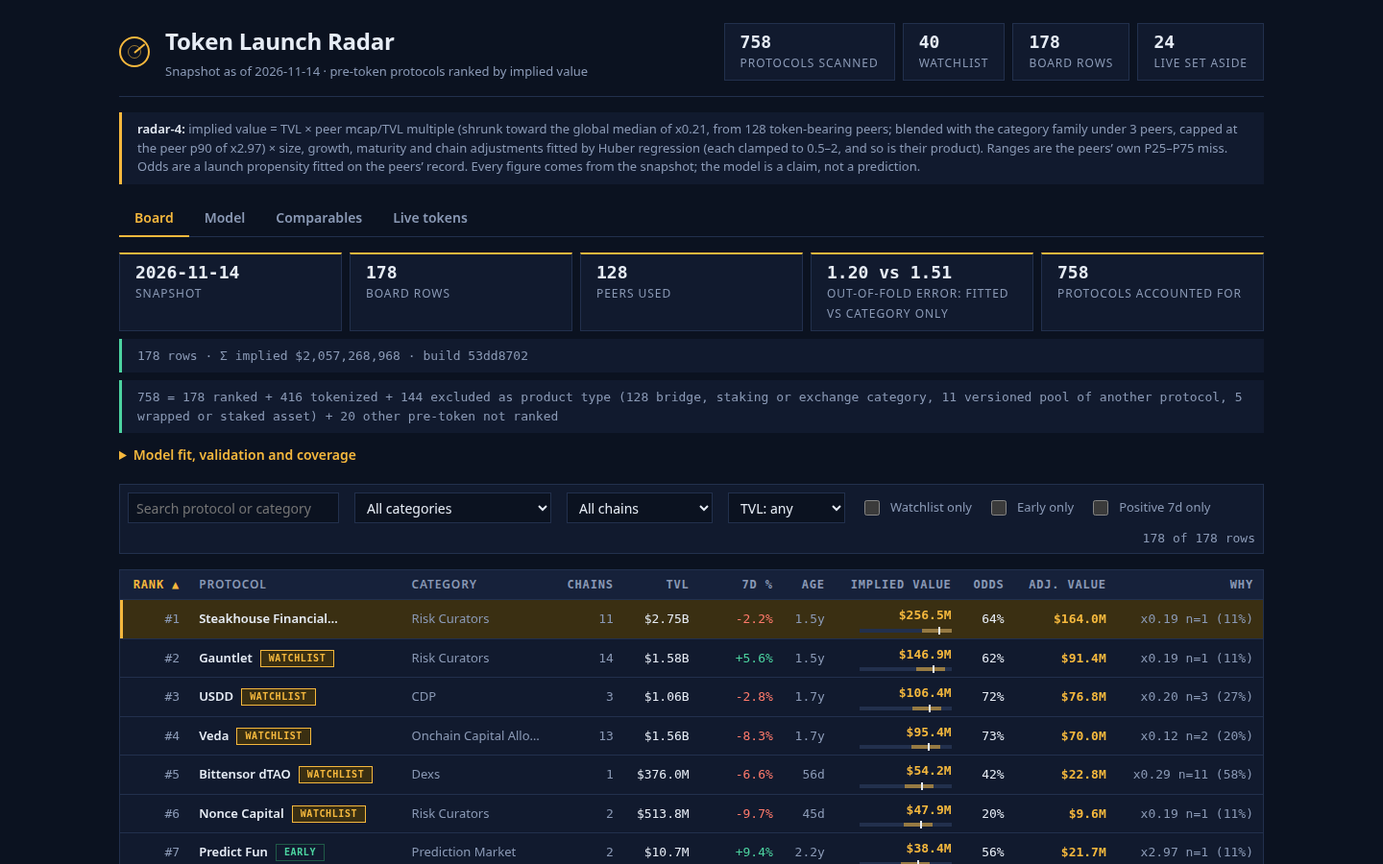
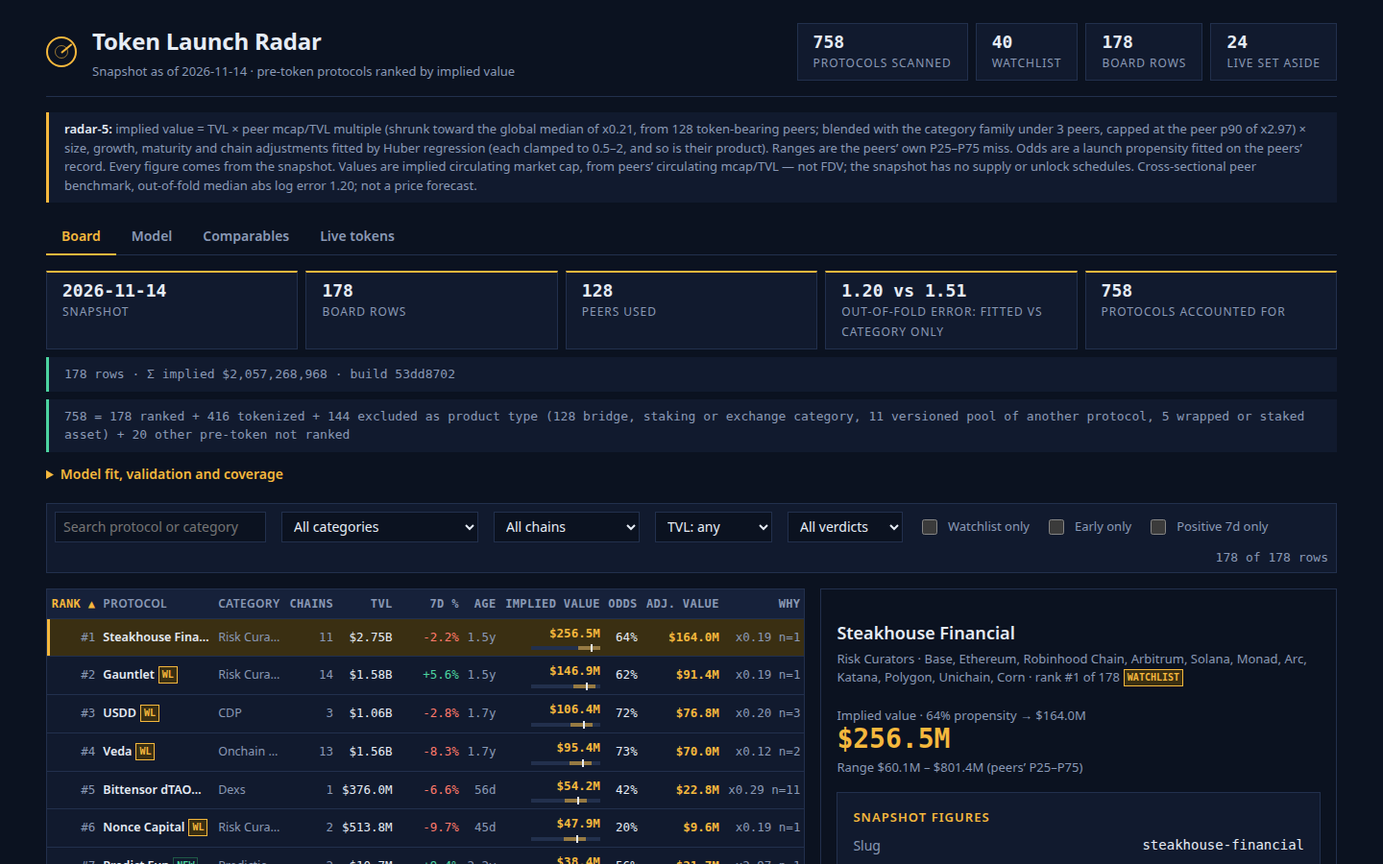
Update dashboard, model and README, replace detail screenshot with comparables

diff --git a/dashboard/app.js b/dashboard/app.js
@@ -5,7 +5,7 @@
   var root = document.getElementById('app');
   if (!D) { root.textContent = 'No data: data.js did not load.'; return; }
   var rows = D.rows;
-  var S = { q: '', cat: '', chain: '', wl: false, early: false, pos: false, tvl: 0, key: 'rank', dir: 1, sel: rows[0].slug };
+  var S = { q: '', cat: '', chain: '', wl: false, early: false, pos: false, verdict: '', tvl: 0, key: 'rank', dir: 1, sel: rows[0].slug };
   var view = 'board';
   var lnLo = Math.log(Math.min.apply(null, rows.map(function (r) { return r.value_low; })));
   var lnSpan = Math.log(Math.max.apply(null, rows.map(function (r) { return r.value_high; }))) - lnLo;
@@ -21,7 +21,8 @@
   function fmtPct(n) { return n === null || n === undefined ? 'n/a' : (n > 0 ? '+' : '') + n.toFixed(1) + '%'; }
   function fmtAge(d) { return d === null || d === undefined ? 'n/a' : d >= 365 ? (d / 365).toFixed(1) + 'y' : d + 'd'; }
   function fmtX(n) { return 'x' + (n >= 10 ? n.toFixed(1) : n.toFixed(2)); }
-  function why(r) { return fmtX(r.model.peer_multiple) + ' n=' + r.model.peer_count + ' (' + Math.round(r.model.confidence * 100) + '%)'; }
+  function why(r) { return fmtX(r.model.peer_multiple) + ' n=' + r.model.peer_count; }
+  function vlabel(r) { return r.farm_verdict.split(':')[0]; }
   function fmtOdds(o) { return Math.round(o * 100) + '%'; }
   function full(n) { return '$' + n.toLocaleString('en-US'); }
   function range(r) { return fmtUsd(r.value_low) + ' – ' + fmtUsd(r.value_high); }
@@ -70,7 +71,7 @@
   function modelLine() {
     return el('p', { class: 'model-line' },
       el('b', { text: D.model_version + ': ' }),
-      'implied value = TVL × peer mcap/TVL multiple (shrunk toward the global median of ' + fmtX(D.global_median_multiple) + ', from ' + D.peer_total + ' token-bearing peers; blended with the category family under 3 peers, capped at the peer p90 of ' + fmtX(D.peer_cap_multiple) + ') × size, growth, maturity and chain adjustments fitted by Huber regression (each clamped to 0.5–2, and so is their product). Ranges are the peers’ own P25–P75 miss. Odds are a launch propensity fitted on the peers’ record. Every figure comes from the snapshot; the model is a claim, not a prediction.');
+      'implied value = TVL × peer mcap/TVL multiple (shrunk toward the global median of ' + fmtX(D.global_median_multiple) + ', from ' + D.peer_total + ' token-bearing peers; blended with the category family under 3 peers, capped at the peer p90 of ' + fmtX(D.peer_cap_multiple) + ') × size, growth, maturity and chain adjustments fitted by Huber regression (each clamped to 0.5–2, and so is their product). Ranges are the peers’ own P25–P75 miss. Odds are a launch propensity fitted on the peers’ record. Every figure comes from the snapshot. Values are implied circulating market cap, from peers’ circulating mcap/TVL — not FDV; the snapshot has no supply or unlock schedules. Cross-sectional peer benchmark, out-of-fold median abs log error ' + D.fit.error_fitted.toFixed(2) + '; not a price forecast.');
   }
   function tabs() {
     var defs = [['board', 'Board'], ['model', 'Model'], ['comparables', 'Comparables'], ['live', 'Live tokens']];
@@ -132,6 +133,7 @@
       if (S.early && r.watchlist) return false;
       if (S.pos && !(r.change_7d !== null && r.change_7d > 0)) return false;
       if (S.tvl && r.tvl_usd < S.tvl) return false;
+      if (S.verdict && vlabel(r) !== S.verdict) return false;
       return true;
     });
     out.sort(function (a, b) {
@@ -162,14 +164,15 @@
       select('Category', [['', 'All categories']].concat(cats.map(function (c) { return [c, c]; })), S.cat, function (v) { S.cat = v; draw(); }),
       select('Chain', [['', 'All chains']].concat(chains.map(function (c) { return [c, c]; })), S.chain, function (v) { S.chain = v; draw(); }),
       select('Minimum TVL', [[0, 'TVL: any'], [1e7, 'TVL ≥ $10M'], [5e7, 'TVL ≥ $50M'], [1e8, 'TVL ≥ $100M'], [5e8, 'TVL ≥ $500M']], S.tvl, function (v) { S.tvl = +v; draw(); }),
+      select('Verdict', [['', 'All verdicts'], ['Worth it', 'Worth it'], ['Marginal', 'Marginal'], ['Skip', 'Skip']], S.verdict, function (v) { S.verdict = v; draw(); }),
       check('Watchlist only', 'wl'), check('Early only', 'early'), check('Positive 7d only', 'pos'),
       el('span', { class: 'count', id: 'count' }));
     var box = el('div', { class: 'tablebox scroll', id: 'tbox' });
-    var pane = el('section', { id: 'detail', 'aria-live': 'polite' });
+    var pane = el('aside', { id: 'detail', 'aria-live': 'polite', 'aria-label': 'Selected protocol' });
     showDetail(pane);
     boardUpdate = function () { fillTable(box, controls.querySelector('#count'), pane); };
     boardUpdate();
-    return el('div', {}, strip(), controls, box, pane);
+    return el('div', {}, strip(), controls, el('div', { class: 'split' }, el('div', { class: 'left' }, box), pane));
   }
   function showDetail(pane) {
     var r = rows.filter(function (x) { return x.slug === S.sel; })[0] || rows[0];
@@ -197,12 +200,13 @@
         [].forEach.call(box.querySelectorAll('tr.sel'), function (x) { x.className = ''; });
         tr.className = 'sel';
         showDetail(pane);
+        pane.scrollTop = 0;
         try { history.replaceState(null, '', '#/p/' + r.slug); } catch (e) { /* file:// may refuse */ }
       };
       var pos = function (v) { return ((Math.log(v) - lnLo) / lnSpan * 100).toFixed(1) + '%'; };
       tr = el('tr', { tabindex: '0', class: r.slug === S.sel ? 'sel' : '', onclick: open, onkeydown: function (e) { if (e.key === 'Enter') open(); } },
         el('td', { class: 'n dim', text: '#' + r.rank }),
-        el('td', { class: 'name' }, r.name, el('span', { class: 'badge ' + (r.watchlist ? 'wl' : 'early'), text: r.watchlist ? 'Watchlist' : 'Early' })),
+        el('td', { class: 'name' }, r.name, el('span', { class: 'badge ' + (r.watchlist ? 'wl' : 'early'), text: r.watchlist ? 'WL' : 'New', title: r.watchlist ? 'Watchlist' : 'Early row' })),
         el('td', { class: 'cat dim', text: r.category || 'Uncategorized' }),
         el('td', { class: 'n dim', text: String(r.chains.length), title: r.chains.join(', ') }),
         el('td', { class: 'n', text: fmtUsd(r.tvl_usd) }),
@@ -234,10 +238,13 @@
     return card('Valuation waterfall', tbl(['Step', 'Factor', 'Value', ''], data, 1), p('Each factor is the fitted, clamped adjustment; their product is clamped to 0.5–2' + (r.clamp_adj !== 1 ? ' (here it binds: ×' + r.clamp_adj.toFixed(2) + ')' : '') + '. The last row scales the implied value by the peers’ out-of-fold P25 and P75 misses.'));
   }
   function nearest(r) {
-    var n = r.nearest;
+    var n = r.nearest, N = r.model.peer_count, cross = n.some(function (x) { return x.cross; });
     return card('Nearest tokenized peers',
-      n.length ? tbl(['Peer', 'TVL', 'Market cap', 'mcap/TVL'], n.map(function (x) { return [x.name, fmtUsd(x.tvl_usd), fmtUsd(x.mcap_usd), fmtX(x.multiple)]; }), 1) : p('No tokenized peer in this category.'),
-      p('Up to 3 peers of the same category, closest in TVL (smallest |ln of the TVL ratio|). This row: ' + fmtUsd(r.tvl_usd) + ' TVL, ' + fmtX(r.model.peer_multiple) + ' used.'));
+      n.length ? tbl(['Peer', 'TVL', 'Market cap', 'mcap/TVL'], n.map(function (x) {
+        return [x.cross ? [document.createTextNode(x.name), el('span', { class: 'badge live', text: 'cross-category' })] : x.name, fmtUsd(x.tvl_usd), fmtUsd(x.mcap_usd), fmtX(x.multiple)];
+      }), 1) : p('No tokenized peer in this category.'),
+      p('Same-category peers first, closest in TVL (smallest |ln of the TVL ratio|)' + (cross ? ', then the closest peers of any category' : '') + '. This row: ' + fmtUsd(r.tvl_usd) + ' TVL, ' + fmtX(r.model.peer_multiple) + ' used.'),
+      cross ? p('Cross-category rows are context only and did not enter the value; the value used the ' + N + ' same-category peer' + (N === 1 ? '' : 's') + ' with shrinkage.') : null);
   }
   function detail(r) {
     var m = r.model, pl = r.plan, F = D.farm;
@@ -262,7 +269,7 @@
       el('div', { class: 'grid w2' },
         card('Snapshot figures',
           el('dl', { class: 'facts' },
-            fact('Slug', r.slug), fact('TVL', full(r.tvl_usd)), fact('TVL change 7d', fmtPct(r.change_7d)),
+            fact('Slug', r.slug), el('dt', { class: 'wide', text: 'Basis: circulating mcap/TVL (not FDV)' }), fact('TVL', full(r.tvl_usd)), fact('TVL change 7d', fmtPct(r.change_7d)),
             fact('Listed', r.listed_at || 'n/a'), fact('Age', r.age_days === null ? 'n/a (365d assumed)' : r.age_days + ' days'),
             fact('Chains', String(r.chains.length)), fact('Token', 'none recorded'),
             fact('Implied value', full(r.implied_value_usd)), fact('Range (P25–P75)', full(r.value_low) + ' – ' + full(r.value_high)),
@@ -280,7 +287,13 @@
       el('div', { class: 'grid w2 mt' }, waterfall(r), nearest(r)),
       el('section', { class: 'card mt' }, el('h3', { text: 'Farm plan and verdict' }),
         el('p', { class: 'verdict ' + vcls, text: r.farm_verdict }),
-        p('Totals: $' + r.farm_cost_usd.toFixed(2) + ' in fees, ' + r.farm_hours.toFixed(1) + ' hands-on hours. Chains ' + pl.chains.map(function (c) { return c.name + ' (tier ' + c.tier + ', $' + c.cost_usd + ')'; }).join(', ') + ' = $' + pl.chain_cost_usd + ' round trip. Deposit $' + pl.deposit_usd.toLocaleString('en-US') + '; about ' + pl.participants.toLocaleString('en-US') + ' wallets share a ' + (F.airdrop_pool_share * 100) + '% pool, so expected $' + pl.ev_wallet_usd.toFixed(2) + ' a wallet = implied × propensity × ' + (F.airdrop_pool_share * 100) + '% / wallets. Time at $' + F.hour_value_usd + '/h; worth it ≥ ' + F.worth_ratio + 'x, marginal ≥ ' + F.marginal_ratio + 'x.'),
+        el('dl', { class: 'facts mt' },
+          fact('Point EV a wallet', '$' + pl.ev_wallet_usd.toFixed(2)), fact('P25 EV a wallet', '$' + pl.ev_p25_wallet_usd.toFixed(2)),
+          fact('All-in cost', '$' + pl.all_in_usd.toFixed(2)),
+          fact('  fees', '$' + r.farm_cost_usd.toFixed(2)), fact('  hands-on time', r.farm_hours.toFixed(1) + 'h × $' + F.hour_value_usd + ' = $' + (r.farm_hours * F.hour_value_usd).toFixed(2)),
+          fact('  capital opportunity', '$' + pl.deposit_usd.toLocaleString('en-US') + ' × ' + (F.capital_apr * 100).toFixed(1) + '% × ' + pl.hold_weeks.toFixed(1) + '/52 wk = $' + pl.opportunity_usd.toFixed(2)),
+          fact('EV / cost', pl.ev_ratio.toFixed(2) + 'x point, ' + pl.ev_p25_ratio.toFixed(2) + 'x P25')),
+        p('Chains ' + pl.chains.map(function (c) { return c.name + ' (tier ' + c.tier + ', $' + c.cost_usd + ')'; }).join(', ') + ' = $' + pl.chain_cost_usd + ' round trip. About ' + pl.participants.toLocaleString('en-US') + ' wallets share a ' + (F.airdrop_pool_share * 100) + '% pool: EV = implied × propensity × ' + (F.airdrop_pool_share * 100) + '% / wallets; P25 EV uses the P25 value. Worth it: point EV ≥ ' + F.worth_ratio + 'x all-in and P25 EV ≥ ' + F.worth_p25_floor + 'x all-in. Marginal: point EV ≥ ' + F.marginal_ratio + 'x all-in but not Worth it. Skip: point EV < ' + F.marginal_ratio + 'x.'),
         el('ol', { class: 'plan mt' }, steps)));
   }
 
@@ -309,6 +322,7 @@
     var tiers = F.tiers.map(function (t) { return ['Tier ' + t.tier, t.label, '$' + t.cost_usd]; });
     return el('div', {},
       p('Two out-of-sample checks of the same model, side by side. Where the fitted gain is small the table says so.', 'note'),
+      p('Basis: values are implied circulating market cap, from peers’ circulating mcap/TVL (not FDV). The snapshot has no supply or unlock schedules, so no fully diluted value can be derived. These checks measure a cross-sectional peer benchmark, not a price forecast.', 'note'),
       el('div', { class: 'grid mb' },
         valCard('Validation 1: 5-fold cross-validation', f.cv, f.cv.n + ' peers predicted out of fold: each fold is refit (category multiples and Huber fit) on the other four; fold = sum of the slug’s char codes mod ' + f.cv.folds + '.'),
         valCard('Validation 2: walk-forward', w, 'Fit on the earliest ' + w.n_fit + ' peers by listed date, tested on the latest ' + w.n + ' (listed ' + w.from + ' to ' + w.to + '; the ' + w.undated + ' undated peers count as oldest). A smaller, harder test.')),
@@ -330,7 +344,8 @@
             el('p', {}, el('b', { text: 'Wallets sharing the pool. ' }), el('code', { text: 'clamp(round(' + dl.base + ' × (TVL / $' + dl.ref_tvl_usd / 1e6 + 'M)^' + dl.exponent + '), ' + dl.min + ', ' + dl.max.toLocaleString('en-US') + ')' })),
             el('p', {}, el('b', { text: 'Deposit. ' }), el('code', { text: 'clamp(round(TVL × ' + dp.rate + ' / ' + dp.step + ') × ' + dp.step + ', $' + dp.min + ', $' + dp.max.toLocaleString('en-US') + ')' }), ' (returned on exit, not a cost).'),
             el('p', {}, el('b', { text: 'Expected value a wallet. ' }), 'implied × propensity × ' + (F.airdrop_pool_share * 100) + '% pool / wallets. One qualifying action costs ' + (F.action_fee_share * 100) + '% of the first chain’s round trip.'),
-            el('p', {}, el('b', { text: 'Verdict. ' }), 'Expected value over all-in cost (fees + hands-on hours at $' + F.hour_value_usd + '/h): Worth it ≥ ' + F.worth_ratio + 'x, Marginal ≥ ' + F.marginal_ratio + 'x, else Skip.'),
+            el('p', {}, el('b', { text: 'All-in cost. ' }), 'fees + hands-on hours × $' + F.hour_value_usd + '/h + capital opportunity = deposit × ' + (F.capital_apr * 100).toFixed(1) + '% APR × hold weeks / 52. Hold weeks is the plan’s own hold in days / 7 (the hold step: 21 to 60 days by age and TVL momentum); a fixed ' + F.hold_weeks_fallback + ' weeks would apply only to a plan with no hold, and none lacks one.'),
+            el('p', {}, el('b', { text: 'Verdict. ' }), 'P25 EV a wallet = P25 value × propensity × ' + (F.airdrop_pool_share * 100) + '% / wallets. Worth it: point EV ≥ ' + F.worth_ratio + 'x all-in cost and P25 EV ≥ ' + F.worth_p25_floor + 'x all-in cost. Marginal: point EV ≥ ' + F.marginal_ratio + 'x all-in cost but not Worth it. Skip: point EV < ' + F.marginal_ratio + 'x all-in cost. The thresholds are not tuned to a target count.'),
             el('p', {}, el('b', { text: 'Tactics. ' }), '7d TVL above +5%: crowding caution and a hold capped at 21 days; below −5%: accumulate quietly. Listed under a year: early-user footprint; over 4 years: a sustained eight-week cadence.')))));
   }
 
@@ -390,7 +405,7 @@
     var inner = view === 'model' ? modelView() : view === 'comparables' ? comparablesView() : view === 'live' ? liveView() : boardView();
     var keep = view === 'board' && document.activeElement && document.activeElement.type === 'search';
     root.textContent = '';
-    root.appendChild(el('div', { class: 'wrap' }, header(), modelLine(), tabs(), el('main', {}, inner)));
+    root.appendChild(el('div', { class: 'wrap' + (view === 'board' ? ' wide' : '') }, header(), modelLine(), tabs(), el('main', {}, inner)));
     if (keep) { var s = root.querySelector('input[type=search]'); if (s) { s.focus(); s.setSelectionRange(s.value.length, s.value.length); } }
     if (view !== 'board') document.title = 'Token Launch Radar';
   }

diff --git a/lib/model.ts b/lib/model.ts
@@ -1,4 +1,4 @@
-// The token radar's model (radar-4): one snapshot of the protocol universe in, one ranked board out.
+// The token radar's model (radar-5): one snapshot of the protocol universe in, one ranked board out.
 //
 // A protocol is pre-token when its index entry records no token (no market cap, no CoinGecko id, no
 // symbol). Implied value is calibrated on the snapshot's own token-bearing protocols (the peers):
@@ -88,9 +88,9 @@ export const MODEL: ModelConstants = {
   chain_cap: 7,
 };
 
-export const MODEL_VERSION = 'radar-4';
+export const MODEL_VERSION = 'radar-5';
 
-/** radar-4 fixed choices: the dashboard states them. */
+/** radar-5 fixed choices: the dashboard states them. */
 export const FIT = {
   thin_peers: 3,
   confidence_k: 8,
@@ -114,7 +114,10 @@ export const FIT = {
   airdrop_pool_share: 0.05,
   hour_value_usd: 15,
   worth_ratio: 3,
+  worth_p25_floor: 1,
   marginal_ratio: 1,
+  capital_apr: 0.045,
+  hold_weeks_fallback: 8,
 };
 
 /** Early rows carried below the watchlist floor, by implied value. */
@@ -182,6 +185,18 @@ export interface PlanFigures {
   ev_wallet_usd: number;
   chains: { name: string; tier: string; cost_usd: number }[];
   chain_cost_usd: number;
+  /** The plan's own hold in days (the hold step) and the weeks the opportunity term uses. */
+  hold_days: number;
+  hold_weeks: number;
+  /** Capital opportunity: deposit x APR x hold_weeks / 52. */
+  opportunity_usd: number;
+  /** All-in cost: fees + hours x hourly value + opportunity. */
+  all_in_usd: number;
+  /** P25 expected value per wallet: value_low x odds x pool share / participants. */
+  ev_p25_wallet_usd: number;
+  /** Point EV over all-in cost, and P25 EV over all-in cost. */
+  ev_ratio: number;
+  ev_p25_ratio: number;
 }
 
 /** One tokenized peer of the same category, nearest in TVL. */
@@ -190,6 +205,8 @@ export interface NearPeer {
   tvl_usd: number;
   mcap_usd: number;
   multiple: number;
+  /** True when the peer is of another category: context only, it did not enter the value. */
+  cross?: boolean;
 }
 
 /** The dashboard's view of one row: the board row plus the farm plan split into its parts. */
@@ -277,7 +294,10 @@ export interface FarmAssumptions {
   airdrop_pool_share: number;
   hour_value_usd: number;
   worth_ratio: number;
+  worth_p25_floor: number;
   marginal_ratio: number;
+  capital_apr: number;
+  hold_weeks_fallback: number;
   tiers: { tier: string; label: string; cost_usd: number }[];
   dilution: typeof DILUTION;
   deposit: typeof DEPOSIT;
@@ -854,15 +874,24 @@ export function depositFor(tvl: number): number {
 
 const usd = (n: number): string => (n >= 10 ? `$${Math.round(n).toLocaleString('en-US')}` : `$${n.toFixed(2)}`);
 
-/** Farm totals and the costed verdict for one row: expected airdrop per wallet against the all-in cost. */
-export function farmVerdict(steps: FarmStep[], ev: number, riskAdjusted: number, participants: number): { cost: number; hours: number; verdict: string } {
+/**
+ * Farm totals and the costed verdict for one row. All-in cost = fees + hours x $15 + capital opportunity
+ * (deposit x 4.5% APR x hold weeks / 52; the hold is the plan's own, or 8 weeks if it has none).
+ * Worth it: point EV >= 3x all-in AND P25 EV >= 1x all-in. Marginal: point EV >= 1x all-in but not Worth it. Skip: point EV < 1x all-in.
+ */
+export function farmVerdict(
+  steps: FarmStep[], ev: number, riskAdjusted: number, participants: number, deposit: number, holdDays: number | null, evP25: number,
+): { cost: number; hours: number; verdict: string; hold_weeks: number; opportunity: number; all_in: number; ratio: number; ratio_p25: number } {
   const cost = Math.round(steps.reduce((s, x) => s + x.cost_usd, 0) * 100) / 100;
   const hours = Math.round(steps.reduce((s, x) => s + x.hours, 0) * 100) / 100;
-  const allIn = cost + hours * FIT.hour_value_usd;
+  const holdWeeks = holdDays === null ? FIT.hold_weeks_fallback : holdDays / 7;
+  const opportunity = deposit * FIT.capital_apr * (holdWeeks / 52);
+  const allIn = cost + hours * FIT.hour_value_usd + opportunity;
   const ratio = ev / allIn;
-  const label = ratio >= FIT.worth_ratio ? 'Worth it' : ratio >= FIT.marginal_ratio ? 'Marginal' : 'Skip';
-  const verdict = `${label}: expected ${usd(ev)} a wallet (risk-adjusted ${usd(riskAdjusted)} x ${FIT.airdrop_pool_share * 100}% pool / ${participants.toLocaleString('en-US')} wallets) vs all-in ${usd(allIn)} (${usd(cost)} fees + ${hours.toFixed(1)}h x $${FIT.hour_value_usd}), ${ratio.toFixed(2)}x.`;
-  return { cost, hours, verdict };
+  const ratioP25 = evP25 / allIn;
+  const label = ratio >= FIT.worth_ratio && ratioP25 >= FIT.worth_p25_floor ? 'Worth it' : ratio >= FIT.marginal_ratio ? 'Marginal' : 'Skip';
+  const verdict = `${label}: point EV ${usd(ev)} a wallet (risk-adjusted ${usd(riskAdjusted)} x ${FIT.airdrop_pool_share * 100}% pool / ${participants.toLocaleString('en-US')} wallets), P25 EV ${usd(evP25)}, vs all-in ${usd(allIn)} (${usd(cost)} fees + ${hours.toFixed(1)}h x $${FIT.hour_value_usd} + ${usd(opportunity)} opportunity on $${deposit.toLocaleString('en-US')} for ${holdWeeks.toFixed(1)} weeks at ${(FIT.capital_apr * 100).toFixed(1)}%): EV/cost ${ratio.toFixed(2)}x point, ${ratioP25.toFixed(2)}x P25.`;
+  return { cost, hours, verdict, hold_weeks: holdWeeks, opportunity, all_in: allIn, ratio, ratio_p25: ratioP25 };
 }
 
 /** FNV-1a (32-bit) of a string's UTF-8 bytes, as 8 hex digits. */
@@ -875,16 +904,20 @@ export function fnv1a(text: string): string {
 /** What the dashboard shows beside a board row and the board itself does not carry. */
 export type RowExtras = Pick<RadarRow, 'value_low' | 'value_high' | 'cat_share' | 'clamp_adj' | 'waterfall' | 'nearest' | 'plan'>;
 
-/** Up to 3 tokenized peers of the same category, nearest in TVL (|ln of the ratio|), ties by slug. */
+/**
+ * Up to 3 tokenized peers of the same category, nearest in TVL (|ln of the ratio|), ties by slug. When fewer than 3
+ * are in the category, the closest tokenized peers of any other category follow, tagged `cross`: display only.
+ */
 export function nearestPeers(p: SnapshotProtocol, peers: SnapshotProtocol[]): NearPeer[] {
   const key = catKey(p.category);
   const lt = Math.log(Math.max(p.tvl_usd, 1));
-  return peers
-    .filter((q) => catKey(q.category) === key)
-    .map((q) => ({ q, d: Math.abs(Math.log(q.tvl_usd) - lt) }))
-    .sort((a, b) => a.d - b.d || cmp(a.q.slug, b.q.slug))
-    .slice(0, 3)
-    .map(({ q }) => ({ name: q.name, tvl_usd: q.tvl_usd, mcap_usd: q.mcap_usd!, multiple: round4(q.mcap_usd! / q.tvl_usd) }));
+  const ranked = peers.map((q) => ({ q, d: Math.abs(Math.log(q.tvl_usd) - lt), same: catKey(q.category) === key }));
+  const view = ({ q }: { q: SnapshotProtocol }) => ({ name: q.name, tvl_usd: q.tvl_usd, mcap_usd: q.mcap_usd!, multiple: round4(q.mcap_usd! / q.tvl_usd) });
+  const byDistance = (a: { q: SnapshotProtocol; d: number }, b: { q: SnapshotProtocol; d: number }) => a.d - b.d || cmp(a.q.slug, b.q.slug);
+  const same = ranked.filter((x) => x.same).sort(byDistance).slice(0, 3).map(view);
+  if (same.length >= 3) return same;
+  const cross = ranked.filter((x) => !x.same).sort(byDistance).slice(0, 3 - same.length).map((x) => ({ ...view(x), cross: true }));
+  return [...same, ...cross];
 }
 
 /** The board and, per slug, the extras only the dashboard shows. `validation` and `prop` are the fits to score with. */
@@ -916,7 +949,9 @@ function scoreBoard(snapshot: Snapshot, model: ModelConstants, validation: FitRe
     const risk = Math.round(s.implied * launch);
     const plan = farmPlan(s.p, s.breakdown.age_days);
     const ev = (s.implied * launch * FIT.airdrop_pool_share) / plan.participants;
-    const fv = farmVerdict(plan.steps, ev, risk, plan.participants);
+    const valueLow = Math.max(1, Math.min(s.implied, Math.round(s.implied * Math.exp(validation.band.q25))));
+    const evP25 = (valueLow * launch * FIT.airdrop_pool_share) / plan.participants;
+    const fv = farmVerdict(plan.steps, ev, risk, plan.participants, plan.deposit, plan.hold_days, evP25);
     const m = s.breakdown;
     let v = s.base;
     const wf: [string, number | null, number][] = [['Base value: TVL x peer multiple', null, Math.round(v)]];
@@ -927,13 +962,26 @@ function scoreBoard(snapshot: Snapshot, model: ModelConstants, validation: FitRe
     }
     wf.push(['Implied value', null, s.implied]);
     extras.set(s.p.slug, {
-      value_low: Math.max(1, Math.min(s.implied, Math.round(s.implied * Math.exp(validation.band.q25)))),
+      value_low: valueLow,
       value_high: Math.max(s.implied, Math.round(s.implied * Math.exp(validation.band.q75))),
       cat_share: round4(shrunkShare(prop.counts, s.p.category, inScope ? s.p : null)),
       clamp_adj: round4(s.clamp),
       waterfall: wf,
       nearest: nearestPeers(s.p, peers),
-      plan: { participants: plan.participants, deposit_usd: plan.deposit, ev_wallet_usd: Math.round(ev * 100) / 100, chains: plan.chains, chain_cost_usd: plan.chain_cost },
+      plan: {
+        participants: plan.participants,
+        deposit_usd: plan.deposit,
+        ev_wallet_usd: Math.round(ev * 100) / 100,
+        chains: plan.chains,
+        chain_cost_usd: plan.chain_cost,
+        hold_days: plan.hold_days,
+        hold_weeks: Math.round(fv.hold_weeks * 100) / 100,
+        opportunity_usd: Math.round(fv.opportunity * 100) / 100,
+        all_in_usd: Math.round(fv.all_in * 100) / 100,
+        ev_p25_wallet_usd: Math.round(evP25 * 100) / 100,
+        ev_ratio: Math.round(fv.ratio * 100) / 100,
+        ev_p25_ratio: Math.round(fv.ratio_p25 * 100) / 100,
+      },
     });
     return {
       rank: i + 1,
@@ -1068,7 +1116,7 @@ function riskFor(p: SnapshotProtocol): string {
 const joinList = (xs: string[]): string => (xs.length <= 1 ? (xs[0] ?? '') : `${xs.slice(0, -1).join(', ')} and ${xs[xs.length - 1]}`);
 
 /** A protocol's farm plan, derived from its own record (category, first chains, TVL, 7d change, age). */
-export function farmPlan(p: SnapshotProtocol, age: number | null): { steps: FarmStep[]; participants: number; deposit: number; chains: PlanFigures['chains']; chain_cost: number } {
+export function farmPlan(p: SnapshotProtocol, age: number | null): { steps: FarmStep[]; participants: number; deposit: number; chains: PlanFigures['chains']; chain_cost: number; hold_days: number } {
   const named = p.chains.slice(0, MAX_PLAN_CHAINS);
   const chains = (named.length > 0 ? named : ['its main chain']).map((name) => {
     const tier = named.length > 0 ? chainTier(name) : 'U';
@@ -1114,7 +1162,7 @@ export function farmPlan(p: SnapshotProtocol, age: number | null): { steps: Farm
     { text: `Check the protocol's own points or rewards page, and claim only from the link that page publishes. Never pay to claim. At ${usd(p.tvl_usd)} TVL this plan assumes about ${participants.toLocaleString('en-US')} wallets share the pool.`, cost: 'no fee to check', time: '10 minutes', cost_usd: 0, hours: 10 / 60 },
     { text: `${riskFor(p)} Record the wallet, dates and every transaction in a farm log, then withdraw, unwind and bridge back from ${joinList(chains.map((c) => c.name))}.`, cost: 'bridge-back is in the round-trip figure', time: `${20 + 5 * (n - 1)} minutes`, cost_usd: 0, hours: (20 + 5 * (n - 1)) / 60 },
   ];
-  return { steps, participants, deposit, chains, chain_cost: chainCost };
+  return { steps, participants, deposit, chains, chain_cost: chainCost, hold_days: hold };
 }
 
 /** The live-token protocols, by market cap. */
@@ -1208,7 +1256,10 @@ export function buildRadar(snapshot: Snapshot, model: ModelConstants = MODEL): {
       airdrop_pool_share: FIT.airdrop_pool_share,
       hour_value_usd: FIT.hour_value_usd,
       worth_ratio: FIT.worth_ratio,
+      worth_p25_floor: FIT.worth_p25_floor,
       marginal_ratio: FIT.marginal_ratio,
+      capital_apr: FIT.capital_apr,
+      hold_weeks_fallback: FIT.hold_weeks_fallback,
       tiers: CHAIN_TIERS,
       dilution: DILUTION,
       deposit: DEPOSIT,

diff --git a/dashboard/app.css b/dashboard/app.css
@@ -134,3 +134,22 @@ td.val span { display: block; }
 .grid.w2 { grid-template-columns: repeat(auto-fit, minmax(480px, 1fr)); }
 @media (max-width: 720px) { .grid.w2 { grid-template-columns: 1fr; } }
 .wfw { display: block; width: 120px; }
+
+/* master-detail board: table left, sticky detail pane right */
+.wrap.wide { max-width: 1392px; }
+dl.facts dt.wide { grid-column: 1 / -1; color: var(--ink); }
+.split { display: grid; grid-template-columns: minmax(0, 1fr) minmax(0, 40%); gap: 16px; align-items: start; }
+.split .tablebox.scroll { max-height: calc(100vh - 16px); margin-bottom: 0; }
+.split .left table { font-size: 12.5px; }
+.split th, .split td { padding: 6px 4px; }
+.split th { letter-spacing: 0.03em; font-size: 12px; }
+.split td.name { max-width: 118px; }
+.split td.cat { max-width: 72px; }
+.split .badge { margin-left: 4px; padding: 0 3px; font-size: 10px; letter-spacing: 0; }
+.split .wh { width: 72px; }
+#detail { position: sticky; top: 8px; max-height: calc(100vh - 16px); overflow-y: auto; border: 1px solid var(--line); padding: 16px; background: var(--bg); }
+#detail .grid, #detail .grid.w2 { grid-template-columns: 1fr; }
+#detail .big { font-size: 28px; }
+#detail .wfw { width: 56px; }
+#detail td, #detail th { white-space: normal; }
+@media (max-width: 1100px) { .split { grid-template-columns: 1fr; } #detail { position: static; max-height: none; } .split .tablebox.scroll { max-height: 360px; } }

diff --git a/README.md b/README.md
@@ -8,14 +8,15 @@ An entry for make.fun's [“Build the best token launch radar”](https://make.f
 
 ## What it does
 
-Reads a sealed DefiLlama snapshot (758 protocols, as of 2026-11-14) and ranks 178 pre-token protocols by implied token value. The model (radar-4) is calibrated from the snapshot itself; no protocol names are hardcoded.
+Reads a sealed DefiLlama snapshot (758 protocols, as of 2026-11-14) and ranks 178 pre-token protocols by implied token value. The model (radar-5) is calibrated from the snapshot itself; no protocol names are hardcoded.
 
-- **Valuation.** Each protocol is priced at TVL × its category's peer mcap/TVL multiple (peers are same-category protocols that already have a token; multiples are shrunk toward the global median and capped at the peer 90th percentile). Size, growth, maturity and chain adjustments are fitted by Huber regression on 128 tokenized peers, not hand-set.
+- **Valuation.** Values are implied circulating market cap, from peers' circulating mcap/TVL. They are not FDV: the snapshot has no supply or unlock schedules. Each protocol is priced at TVL × its category's peer mcap/TVL multiple (peers are same-category protocols that already have a token; multiples are shrunk toward the global median and capped at the peer 90th percentile). Size, growth, maturity and chain adjustments are fitted by Huber regression on 128 tokenized peers, not hand-set.
 - **Out-of-sample validation.** Median absolute log error, fitted vs category-multiple only: 5-fold cross-validation 1.20 vs 1.51; walk-forward by listed date 1.27 vs 1.57.
 - **Value ranges.** Each row carries a P25–P75 range built from out-of-fold residuals. Measured walk-forward coverage of that range is 51%.
 - **Launch odds.** A regularized logistic regression gives a launch propensity from the peers' record (Brier 0.224 vs 0.249 for the base rate). It is a propensity, not a prediction that a protocol will issue a token.
-- **Farm plans.** Every row has a step-by-step plan that names the protocol's actual chains and costs them from a stated chain-tier table (an assumption of the model, not a measurement). Wallet dilution and deposits scale with TVL. Each plan ends in a worth-it, marginal or skip verdict.
-- **Dashboard.** A dark, sortable, filterable board. The detail view shows a valuation waterfall and the nearest tokenized peers. The Model tab shows a calibration scatter. A reconciliation strip shows the row count, the sum of implied values and a build hash. Comparables and live-token views are also included.
+- **Farm plans.** Every row has a step-by-step plan that names the protocol's actual chains and costs them from a stated chain-tier table (an assumption of the model, not a measurement). Wallet dilution and deposits scale with TVL.
+- **Verdict rule.** All-in cost = fees + hands-on hours × $15 + a capital opportunity term, deposit × 4.5% APR × hold weeks / 52 (the hold is the plan's own, 21 to 60 days; 8 weeks would apply only to a plan with none). P25 expected value per wallet = P25 value × launch odds × 5% pool / wallets. **Worth it** needs point EV ≥ 3× all-in cost and P25 EV ≥ 1× all-in cost; **Marginal** is point EV ≥ 1× all-in cost but not Worth it; **Skip** is point EV < 1×. The thresholds are not tuned to a target count.
+- **Dashboard.** A dark, sortable board with a verdict filter, laid out master-detail: the table on the left, a sticky detail pane on the right (facts, valuation waterfall, nearest tokenized peers, farm plan and itemised verdict). Thin categories show cross-category peers, tagged as context only: they did not enter the value. The Model tab shows a calibration scatter and the basis note. A reconciliation strip shows the row count, the sum of implied values and a build hash. Comparables and live-token views are also included.
 
 ## Run
 
@@ -28,7 +29,7 @@ Requires Node.js 22+. The program is `main.ts` (standard library only, no networ
 ## Layout
 
 - `main.ts` — entrypoint
-- `lib/model.ts` — valuation model, validation, launch odds and farm-plan generation
+- `lib/model.ts` — valuation model, validation, launch odds, farm-plan generation and verdicts
 - `dashboard/` — the radar dashboard (index.html, app.css, app.js)
 - `screenshots/` — dashboard screenshots
 - `vendor/makefun-board.ts` — board/dossier builder (upstream, unmodified)
